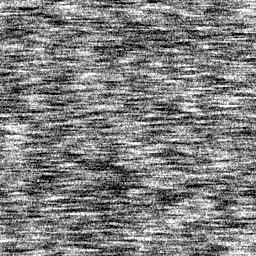
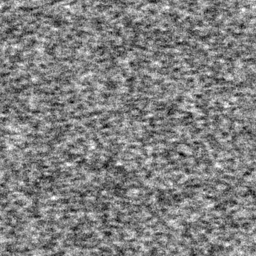
Polish paper look: finer noise, visible hard shadow, warm dimming, folded dog-ear
Claude-Session: https://claude.ai/code/session_01NStApFBDSgNyTE2MuczyUq

diff --git a/app/Sources/Dropboard/PaperStyle.swift b/app/Sources/Dropboard/PaperStyle.swift
@@ -6,27 +6,30 @@ import QuartzCore
 enum PaperStyle {
     // Farben (sRGB, 0xRRGGBB)
     static let paperHex: UInt32 = 0xF4F0E8      // warmes Off-White, kein reines Weiß
-    static let graphiteHex: UInt32 = 0x2E2E2C   // Graphit statt Schwarz (Schatten, Abdunklung, Linien)
+    static let graphiteHex: UInt32 = 0x3A2E22   // warmes Graphit/Umbra statt neutralem Grau (Schatten, Abdunklung, Linien); v1: 0x2E2E2C
 
     // Noise-Ebene
-    static let noiseOpacity: Float = 0.06       // bei 100 % gerade sichtbar
+    static let noiseOpacity: Float = 0.05       // bei 100 % gerade sichtbar; v1: 0.06 bei Textur-Std 55, jetzt Std 34 (Effekt auf dem Papier: Std 3.3 -> 1.7 Stufen)
 
     // Abgedunkeltes Papier während eines Drags (Briefing „Look“)
-    static let dimOpacity: Float = 0.35         // Graphit über dem Papier, unter den Bildern
+    static let dimOpacity: Float = 0.35         // warmes Graphit über dem Papier, unter den Bildern; Ergebnis ca. #AFA89F (v1: #ADABA5 neutral)
 
     // Harter Schatten (kein Blur)
     static let shadowRadius: CGFloat = 0
     static let shadowOffset = CGSize(width: 1.5, height: -1.5)  // pt; nach unten rechts (y-up, nicht geflippt)
-    static let shadowOpacity: Float = 0.25
+    static let shadowOpacity: Float = 0.45        // v1: 0.25; auf Board ca. #9D968C statt #BEBBB5 (Kontrast 2.5:1 statt 1.6:1)
 
     // Platzhalter bis ein File-Promise erfüllt ist: leeres Papier-Rechteck, etwas heller als das Board
     static let placeholderHex: UInt32 = 0xFBF9F4
 
-    // Eselsohr: gleiches Papier (Rückseite etwas dunkler), gedämpft, ohne Schatten
-    static let earBackHex: UInt32 = 0xE9E3D7
+    // Eselsohr: umgeknickte Ecke. Die Lasche zeigt die Papier-Rückseite (etwas dunkler und kühler als die Vorderseite),
+    // gedämpft, ohne Schatten im Ruhezustand. Nach Noise ca. #E0DED8 (Board: #EEEAE3).
+    static let earBackHex: UInt32 = 0xE5E3DD    // v1: 0xE9E3D7 (wärmer, wirkte wie flaches Dreieck)
     static let earOpacity: Float = 0.9
-    static let earEdgeAlpha: CGFloat = 0.14     // Haarlinie an den beiden Papierkanten
-    static let earFoldAlpha: CGFloat = 0.28     // Falzlinie (Diagonale)
+    static let earEdgeAlpha: CGFloat = 0.18     // schmaler harter Kantenstrich an den beiden Papierkanten (Lesbarkeit auf Hell); v1: 0.14
+    static let earFoldAlpha: CGFloat = 0.24     // Falzlinie (Diagonale); v1: 0.28
+    static let earFoldBandAlpha: CGFloat = 0.07 // schmale Abdunklung der Lasche entlang des Falzes (Papierwölbung), flach, 3 pt
+    static let earFoldHighlightAlpha: CGFloat = 0.45 // heller Haarstrich direkt neben der Falzlinie (Falzkante)
 
     static func cgColor(_ hex: UInt32, alpha: CGFloat = 1) -> CGColor {
         CGColor(srgbRed: CGFloat((hex >> 16) & 0xFF) / 255,

diff --git a/app/Sources/Dropboard/PaperArt.swift b/app/Sources/Dropboard/PaperArt.swift
@@ -25,9 +25,12 @@ enum PaperArt {
 
     /// Eselsohr als umgeknicktes Papiereck: sichtbar ist die Lasche (Dreieck mit rechtem Winkel unten links,
     /// Falz von oben links nach unten rechts), das Dreieck oben rechts ist „weg“ (transparent).
-    /// Gleiches Papier wie das Board (Rückseite etwas dunkler) mit derselben Noise, kein Schatten.
+    /// Die Lasche zeigt die Papier-Rückseite (etwas dunkler und kühler als das Board), mit derselben Noise, Falzband,
+    /// Falzlinie und hellem Haarstrich; kein Schatten.
     // ⚠ VERIFIZIEREN: CGMutablePath, clip(), strokePath() und setAlpha() kommen in keinem Spike vor
     // (Standard-CoreGraphics). Prüfen per `--snapshot`: Datei `<pfad>-ear.png`.
+    // ⚠ VERIFIZIEREN: Falzband und heller Haarstrich (Clip + Strokes, Offset um 1 pt) sind rein rechnerisch ausgelegt,
+    // Wirkung auf dem Mac im Snapshot prüfen (ob die Lasche als Rückseite einer Papierecke liest).
     static func earImage(size: CGSize, scale: CGFloat, noiseTile: CGImage?) -> CGImage? {
         let w = Int((size.width * scale).rounded()), h = Int((size.height * scale).rounded())
         guard w > 0, h > 0, let cs = CGColorSpace(name: CGColorSpace.sRGB),
@@ -65,10 +68,32 @@ enum PaperArt {
         ctx.setLineWidth(1)
         ctx.strokePath()
 
-        // Falzlinie (1 pt)
+        // Falz: Diagonale von oben links nach unten rechts
         let fold = CGMutablePath()
         fold.move(to: CGPoint(x: 0, y: H))
         fold.addLine(to: CGPoint(x: W, y: 0))
+
+        // 1) schmales Band (3 pt) auf der Lasche entlang des Falzes, nur innerhalb der Lasche (Clip), flach, kein Verlauf
+        ctx.saveGState()
+        ctx.addPath(flap)
+        ctx.clip()
+        ctx.addPath(fold)
+        ctx.setStrokeColor(PaperStyle.cgColor(PaperStyle.graphiteHex, alpha: PaperStyle.earFoldBandAlpha))
+        ctx.setLineWidth(6 * scale)   // halbe Breite (3 pt) liegt innerhalb des Clips
+        ctx.strokePath()
+
+        // 2) heller Haarstrich (1 pt) direkt neben der Falzlinie auf der Laschenseite (Normale (-1,-1)/√2, Abstand 1 pt)
+        let off = scale * 0.7071
+        let highlight = CGMutablePath()
+        highlight.move(to: CGPoint(x: -off, y: H - off))
+        highlight.addLine(to: CGPoint(x: W - off, y: -off))
+        ctx.addPath(highlight)
+        ctx.setStrokeColor(PaperStyle.cgColor(0xFFFFFF, alpha: PaperStyle.earFoldHighlightAlpha))
+        ctx.setLineWidth(max(1, scale))
+        ctx.strokePath()
+        ctx.restoreGState()
+
+        // 3) Falzlinie (1 pt)
         ctx.addPath(fold)
         ctx.setStrokeColor(PaperStyle.cgColor(PaperStyle.graphiteHex, alpha: PaperStyle.earFoldAlpha))
         ctx.setLineWidth(max(1, scale))

diff --git a/app/tools/make_noise.py b/app/tools/make_noise.py
@@ -1,0 +1,69 @@
+#!/usr/bin/env python3
+"""Erzeugt die Papier-Noise-Textur (256x256, Graustufen, nahtlos kachelbar).
+
+Reproduzierbar: fester Seed. Abhaengigkeiten: numpy, Pillow.
+Aufruf:  python3 app/tools/make_noise.py [ausgabe.png]
+Standardausgabe: app/Sources/Dropboard/Resources/noise.png
+
+Nahtlos, weil das Rauschen im Frequenzraum (FFT) gefiltert wird: das Ergebnis ist
+per Konstruktion periodisch, Kanten links/rechts und oben/unten passen exakt.
+
+Version 2 (Optik-Feinschliff): feinere Koernung, nur noch leichte horizontale
+Streckung (Korrelationslaenge x:y ~1.7:1 statt ~6:1), geringerer Kontrast, Mittelwert 128.
+Die Ebene wird in der App mit PaperStyle.noiseOpacity ueber das Papier gelegt.
+"""
+import sys
+from pathlib import Path
+
+import numpy as np
+from PIL import Image
+
+N = 256
+SEED = 20261007
+MEAN = 128.0    # Zielmittelwert (0..255)
+STD = 34.0      # Ziel-Standardabweichung (v1: 55); die Deckkraft regelt die App
+
+rng = np.random.default_rng(SEED)
+fx = np.fft.fftfreq(N)[None, :]
+fy = np.fft.fftfreq(N)[:, None]
+
+
+def filtered(sx: float, sy: float) -> np.ndarray:
+    """Weisses Rauschen, gaussgefiltert im Frequenzraum (sx/sy = Bandbreite; kleiner = groeber)."""
+    spectrum = np.fft.fft2(rng.standard_normal((N, N)))
+    h = np.exp(-0.5 * ((fx / sx) ** 2 + (fy / sy) ** 2))
+    out = np.real(np.fft.ifft2(spectrum * h))
+    return out / out.std()
+
+
+grain = filtered(0.30, 0.30)   # feine, isotrope Koernung
+fibre = filtered(0.08, 0.14)   # nur leicht horizontal gestreckt (~1.75:1)
+cloud = filtered(0.02, 0.02)   # sehr weiche Unruhe, kaum Anteil
+v = 0.50 * grain + 0.80 * fibre + 0.15 * cloud
+v = (v - v.mean()) / v.std()
+img = np.clip(MEAN + STD * v + 0.5, 0, 255).astype(np.uint8)
+
+out = Path(sys.argv[1]) if len(sys.argv) > 1 else (
+    Path(__file__).resolve().parent.parent / "Sources/Dropboard/Resources/noise.png")
+out.parent.mkdir(parents=True, exist_ok=True)
+Image.fromarray(img, mode="L").save(out, optimize=True)
+
+# Messung: Mittelwert/Std, Autokorrelation x vs. y (Halbwertslag), Naht.
+f = img.astype(np.float64)
+d = f - f.mean()
+ac = np.real(np.fft.ifft2(np.abs(np.fft.fft2(d)) ** 2)) / (d.var() * d.size)
+
+
+def corr_len(profile, t=0.3) -> float:
+    """Lag (px, interpoliert), bei dem die Autokorrelation unter t faellt."""
+    for i in range(1, len(profile)):
+        if profile[i] < t:
+            return i - 1 + (profile[i - 1] - t) / (profile[i - 1] - profile[i])
+    return float(len(profile))
+
+
+hx, hy = corr_len(ac[0, :N // 2]), corr_len(ac[:N // 2, 0])
+print(f"geschrieben: {out}  ({N}x{N}, mean={f.mean():.1f}, std={f.std():.1f})")
+print(f"Autokorrelation lag1 x/y={ac[0,1]:.3f}/{ac[1,0]:.3f}  Korrelationslaenge(0.3) x/y={hx:.1f}/{hy:.1f} px  Anisotropie={hx/max(hy,1):.2f}")
+print(f"Naht x/y={np.abs(f[:,0]-f[:,-1]).mean():.2f}/{np.abs(f[0,:]-f[-1,:]).mean():.2f}  "
+      f"Innen x/y={np.abs(f[:,1:]-f[:,:-1]).mean():.2f}/{np.abs(f[1:,:]-f[:-1,:]).mean():.2f}")
